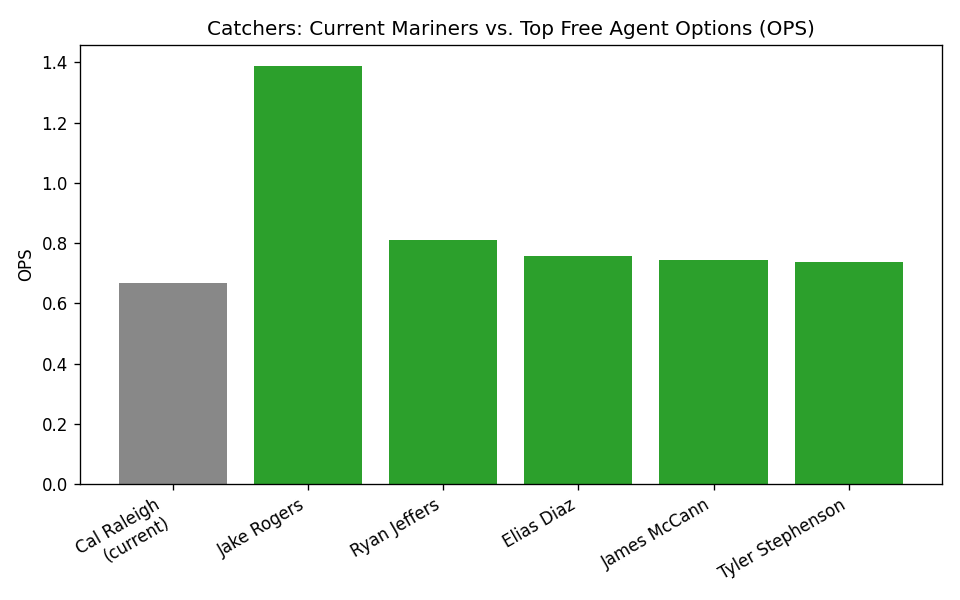
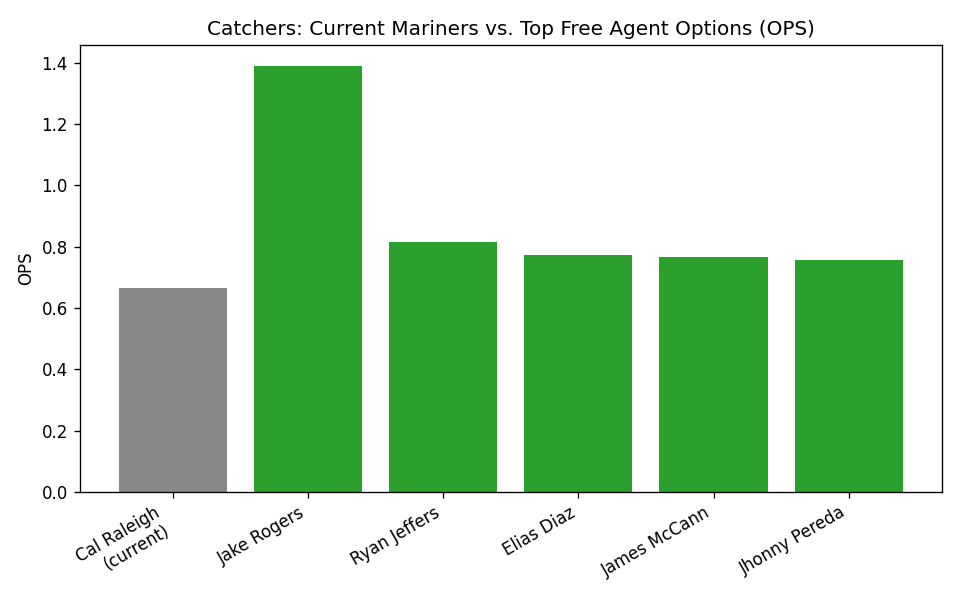
visuals

diff --git a/output/free_agent_charts/mariners_vs_targets.html b/output/free_agent_charts/mariners_vs_targets.html
@@ -22,84 +22,84 @@
         <tr>
           <td class="name-cell">
             <div class="name">Cal Raleigh</div>
-            <div class="stat">0.667 OPS</div>
+            <div class="stat">0.664 OPS</div>
           </td>
           <td class="check-cell"></td>
           <td class="pos-cell">Catchers</td>
           <td class="check-cell">&#10003;</td>
           <td class="name-cell name-cell-right">
             <div class="name">Ryan Jeffers</div>
-            <div class="stat">0.812 OPS</div>
+            <div class="stat">0.814 OPS</div>
           </td>
         </tr>
         <tr>
           <td class="name-cell">
             <div class="name">Julio Rodríguez</div>
-            <div class="stat">0.703 OPS</div>
+            <div class="stat">0.708 OPS</div>
           </td>
           <td class="check-cell"></td>
           <td class="pos-cell">Center<br>Fielders</td>
           <td class="check-cell">&#10003;</td>
           <td class="name-cell name-cell-right">
             <div class="name">Tyrone Taylor</div>
-            <div class="stat">0.879 OPS</div>
+            <div class="stat">0.890 OPS</div>
           </td>
         </tr>
         <tr>
           <td class="name-cell">
             <div class="name">Dominic Canzone</div>
-            <div class="stat">0.814 OPS</div>
+            <div class="stat">0.820 OPS</div>
           </td>
           <td class="check-cell"></td>
           <td class="pos-cell">Designated<br>Hitters</td>
           <td class="check-cell">&#10003;</td>
           <td class="name-cell name-cell-right">
             <div class="name">Seiya Suzuki</div>
-            <div class="stat">0.835 OPS</div>
+            <div class="stat">0.841 OPS</div>
           </td>
         </tr>
         <tr>
           <td class="name-cell">
             <div class="name">Josh Naylor</div>
-            <div class="stat">0.677 OPS</div>
+            <div class="stat">0.667 OPS</div>
           </td>
           <td class="check-cell"></td>
           <td class="pos-cell">First<br>Basemen</td>
           <td class="check-cell">&#10003;</td>
           <td class="name-cell name-cell-right">
-            <div class="name">Jake Bauers</div>
-            <div class="stat">0.890 OPS</div>
+            <div class="name">Ty France</div>
+            <div class="stat">0.865 OPS</div>
           </td>
         </tr>
         <tr>
           <td class="name-cell">
             <div class="name">Randy Arozarena</div>
-            <div class="stat">0.859 OPS</div>
+            <div class="stat">0.865 OPS</div>
           </td>
           <td class="check-cell"></td>
           <td class="pos-cell">Left<br>Fielders</td>
           <td class="check-cell">&#10003;</td>
           <td class="name-cell name-cell-right">
             <div class="name">Jake Bauers</div>
-            <div class="stat">0.890 OPS</div>
+            <div class="stat">0.874 OPS</div>
           </td>
         </tr>
         <tr>
           <td class="name-cell">
             <div class="name">Real bullpen average</div>
-            <div class="stat">4.48 ERA</div>
+            <div class="stat">4.43 ERA</div>
           </td>
           <td class="check-cell"></td>
           <td class="pos-cell">Left-Handed<br>Relievers</td>
           <td class="check-cell">&#10003;</td>
           <td class="name-cell name-cell-right">
             <div class="name">Yuki Matsui</div>
-            <div class="stat">1.90 ERA</div>
+            <div class="stat">1.83 ERA</div>
           </td>
         </tr>
         <tr>
           <td class="name-cell">
-            <div class="name">Luke Raley (60-day IL)</div>
+            <div class="name">Luke Raley</div>
             <div class="stat">0.723 OPS</div>
           </td>
           <td class="check-cell"></td>
@@ -107,71 +107,71 @@
           <td class="check-cell">&#10003;</td>
           <td class="name-cell name-cell-right">
             <div class="name">Randal Grichuk</div>
-            <div class="stat">0.941 OPS</div>
+            <div class="stat">0.926 OPS</div>
           </td>
         </tr>
         <tr>
           <td class="name-cell">
             <div class="name">Real bullpen average</div>
-            <div class="stat">4.48 ERA</div>
+            <div class="stat">4.43 ERA</div>
           </td>
           <td class="check-cell"></td>
           <td class="pos-cell">Right-Handed<br>Relievers</td>
           <td class="check-cell">&#10003;</td>
           <td class="name-cell name-cell-right">
             <div class="name">Garrett Whitlock</div>
-            <div class="stat">1.75 ERA</div>
+            <div class="stat">1.72 ERA</div>
           </td>
         </tr>
         <tr>
           <td class="name-cell">
             <div class="name">Cole Young</div>
-            <div class="stat">0.693 OPS</div>
+            <div class="stat">0.694 OPS</div>
           </td>
           <td class="check-cell"></td>
           <td class="pos-cell">Second<br>Basemen</td>
           <td class="check-cell">&#10003;</td>
           <td class="name-cell name-cell-right">
             <div class="name">Brandon Lowe</div>
-            <div class="stat">0.819 OPS</div>
+            <div class="stat">0.824 OPS</div>
           </td>
         </tr>
         <tr>
           <td class="name-cell">
             <div class="name">J.P. Crawford</div>
-            <div class="stat">0.686 OPS</div>
+            <div class="stat">0.687 OPS</div>
           </td>
           <td class="check-cell">&#10003;</td>
           <td class="pos-cell">Shortstops</td>
           <td class="check-cell"></td>
           <td class="name-cell name-cell-right">
-            <div class="name">Orlando Arcia</div>
-            <div class="stat">0.654 OPS</div>
+            <div class="name">Jorge Mateo</div>
+            <div class="stat">0.665 OPS</div>
           </td>
         </tr>
         <tr>
           <td class="name-cell">
             <div class="name">Real rotation average</div>
-            <div class="stat">4.05 ERA</div>
+            <div class="stat">4.07 ERA</div>
           </td>
           <td class="check-cell"></td>
           <td class="pos-cell">Starting<br>Pitchers</td>
           <td class="check-cell">&#10003;</td>
           <td class="name-cell name-cell-right">
             <div class="name">Paul Blackburn</div>
-            <div class="stat">1.63 ERA</div>
+            <div class="stat">1.69 ERA</div>
           </td>
         </tr>
         <tr>
           <td class="name-cell">
-            <div class="name">Brendan Donovan (7-day IL)</div>
+            <div class="name">Brendan Donovan</div>
             <div class="stat">0.780 OPS</div>
           </td>
           <td class="check-cell"></td>
           <td class="pos-cell">Third<br>Basemen</td>
           <td class="check-cell">&#10003;</td>
           <td class="name-cell name-cell-right">
-            <div class="name">Will Wilson (60-day IL)</div>
+            <div class="name">Will Wilson</div>
             <div class="stat">1.133 OPS</div>
           </td>
         </tr>
